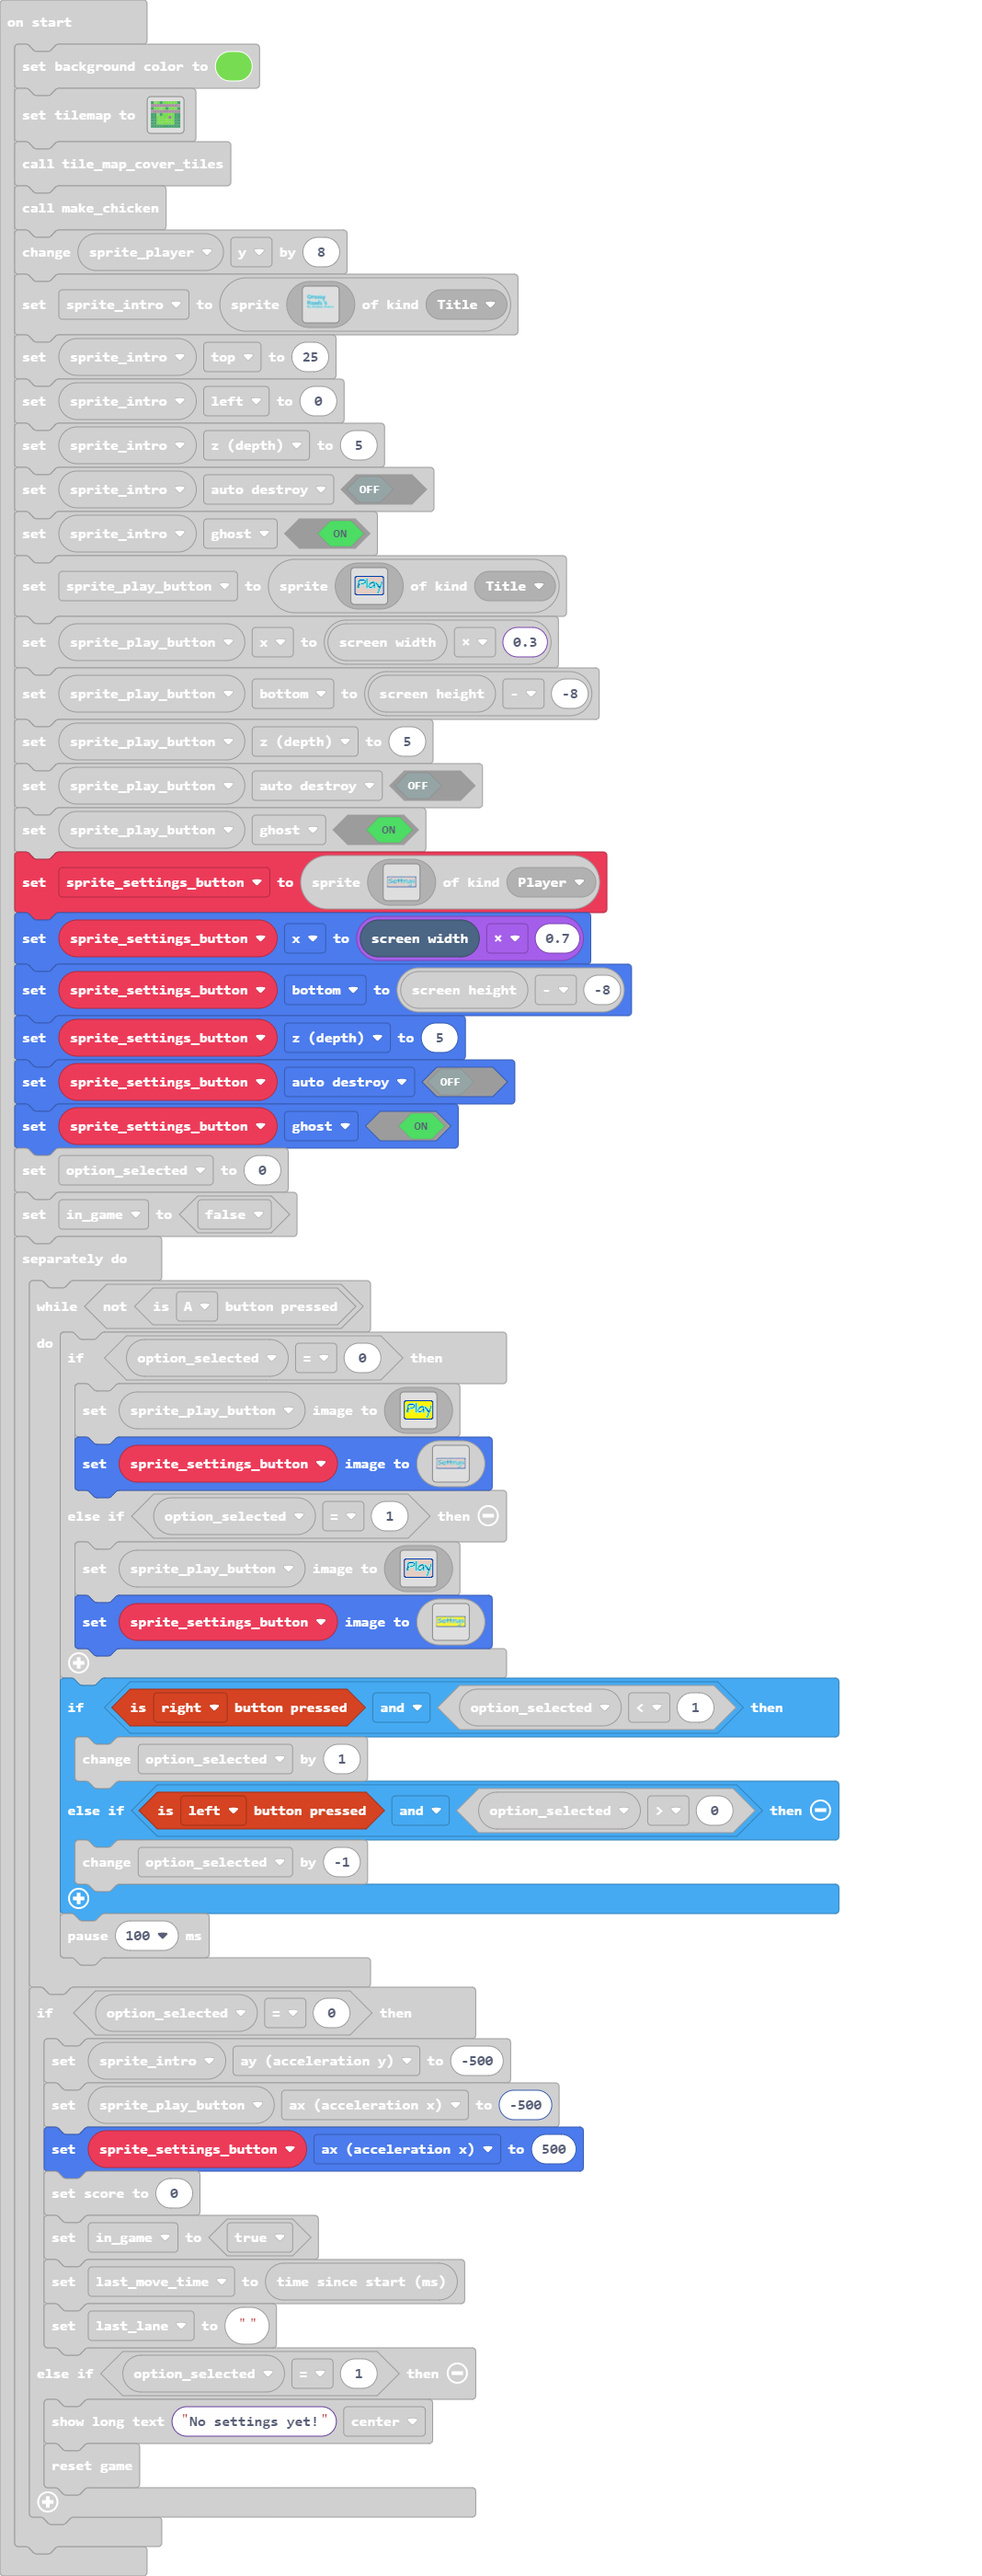
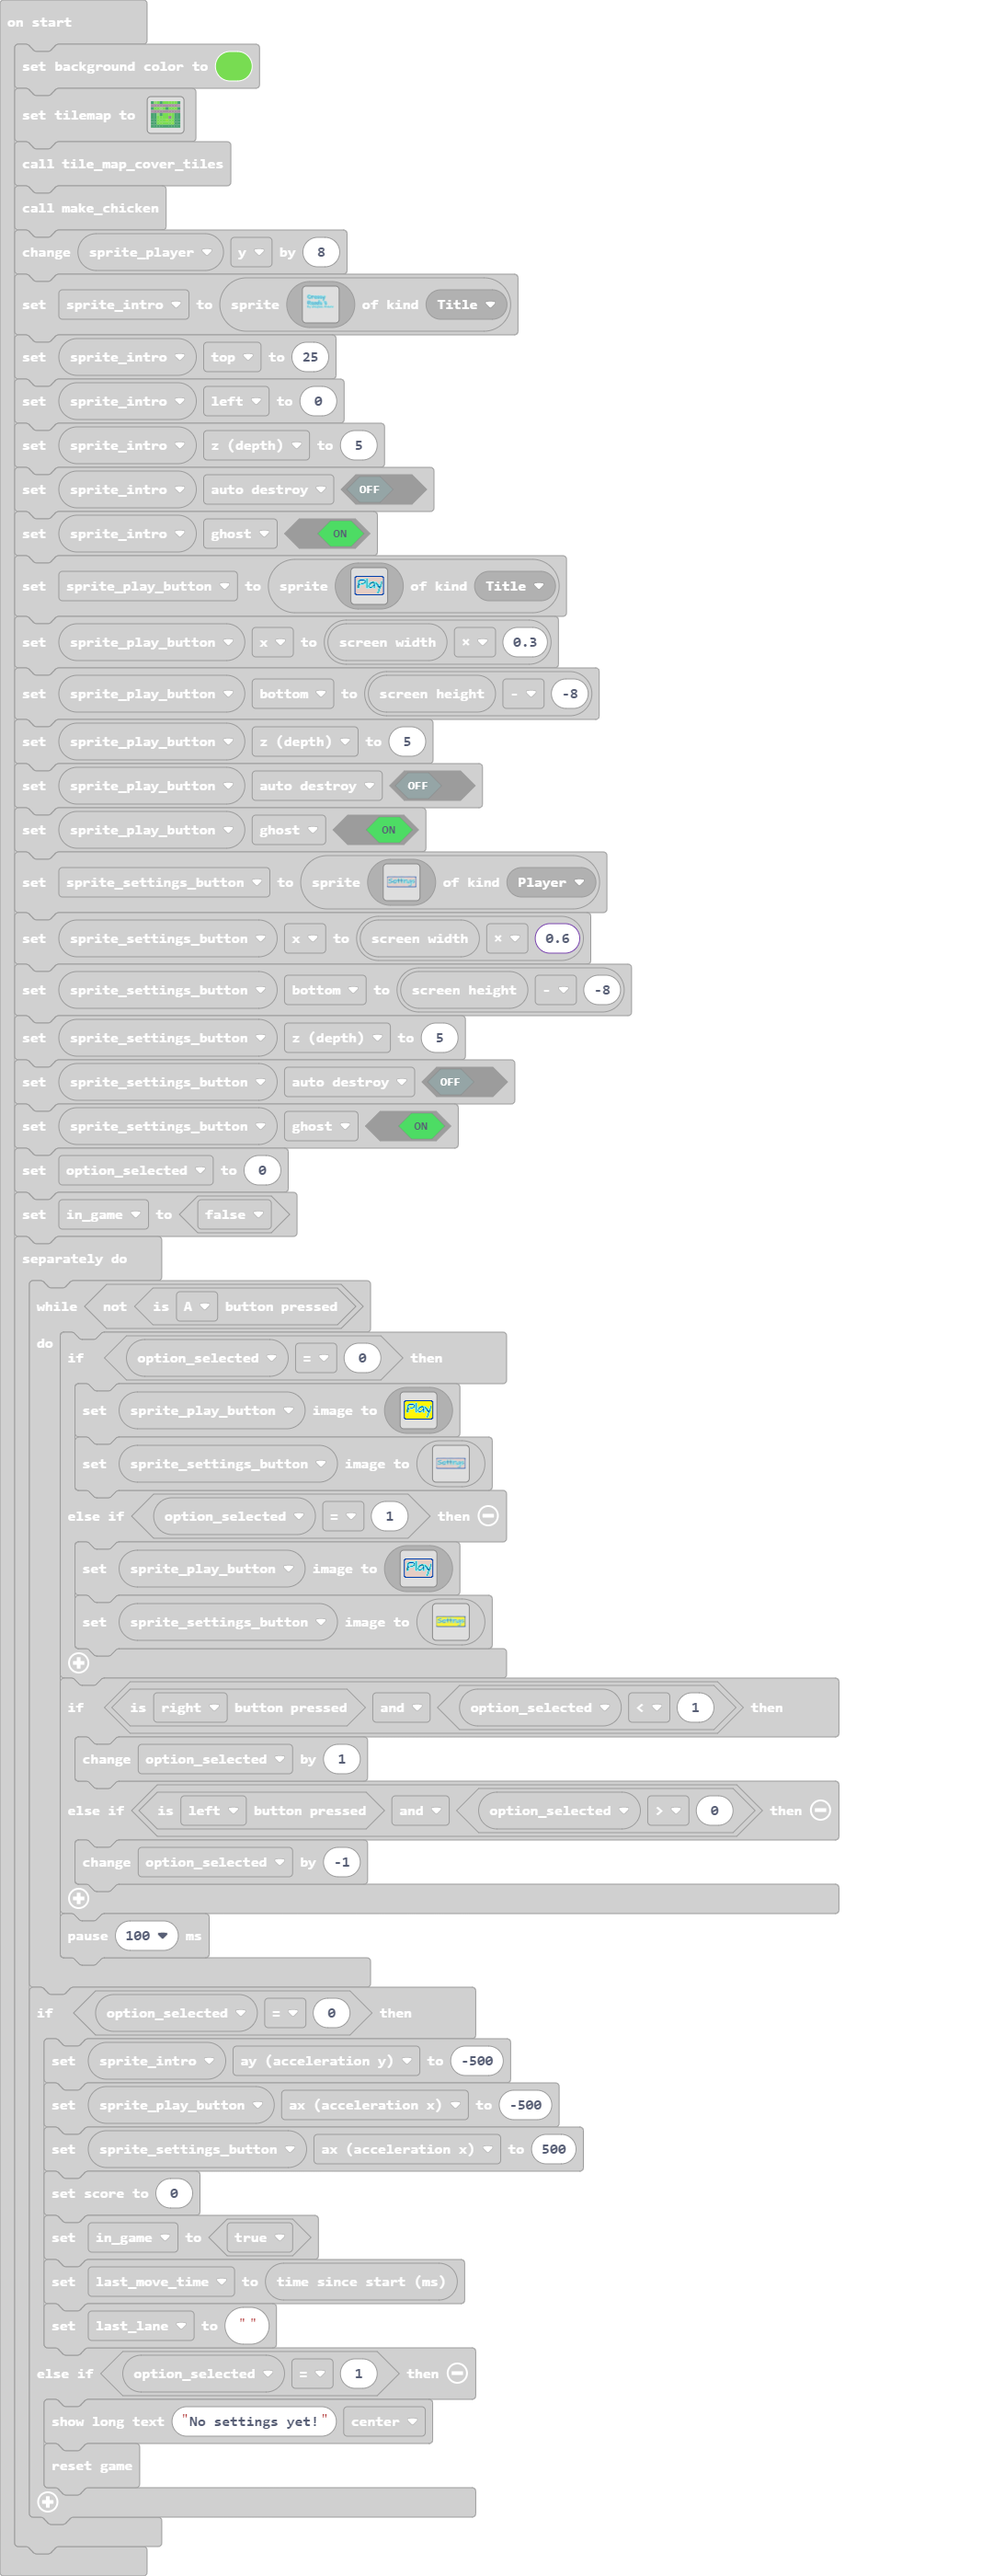
Move settings button location

diff --git a/main.ts b/main.ts
@@ -328,7 +328,7 @@ sprite_play_button.z = 5
 sprite_play_button.setFlag(SpriteFlag.AutoDestroy, false)
 sprite_play_button.setFlag(SpriteFlag.Ghost, true)
 let sprite_settings_button = sprites.create(assets.image`settings_button`, SpriteKind.Player)
-sprite_settings_button.x = scene.screenWidth() * 0.7
+sprite_settings_button.x = scene.screenWidth() * 0.6
 sprite_settings_button.bottom = scene.screenHeight() - -8
 sprite_settings_button.z = 5
 sprite_settings_button.setFlag(SpriteFlag.AutoDestroy, false)
